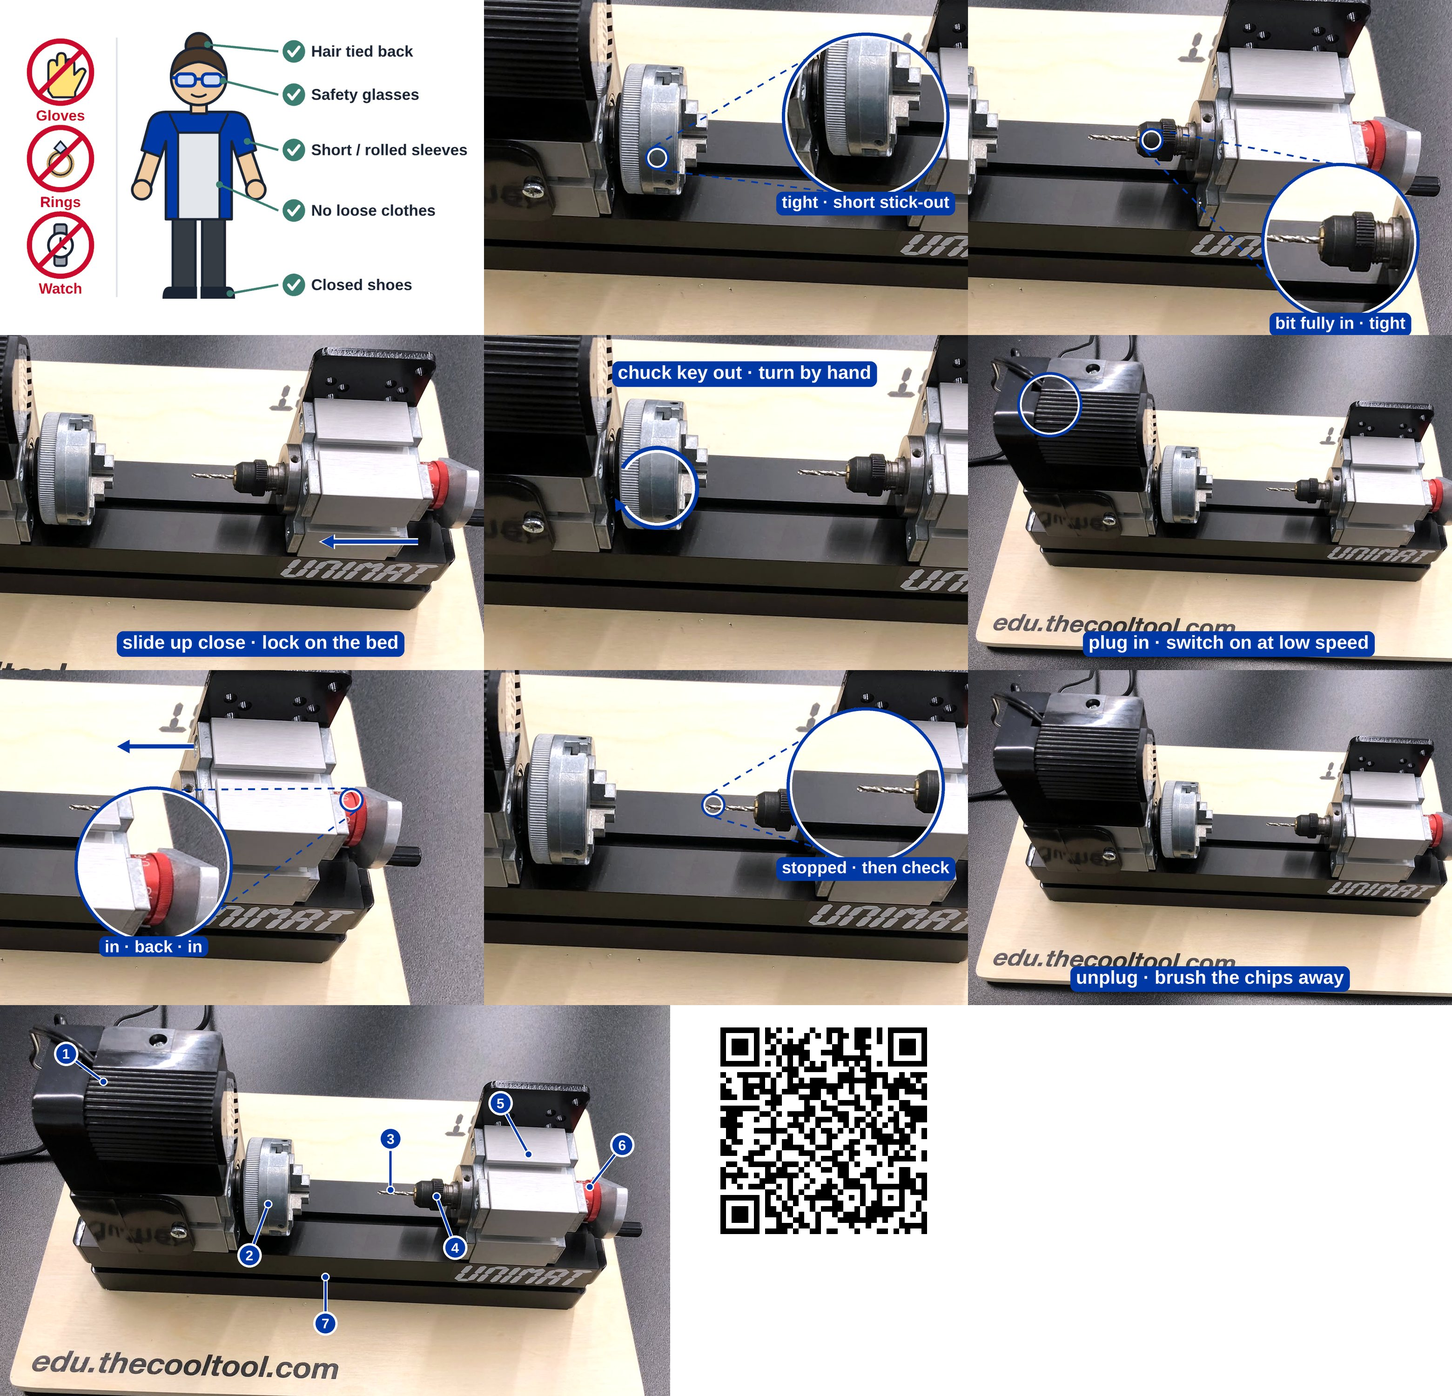
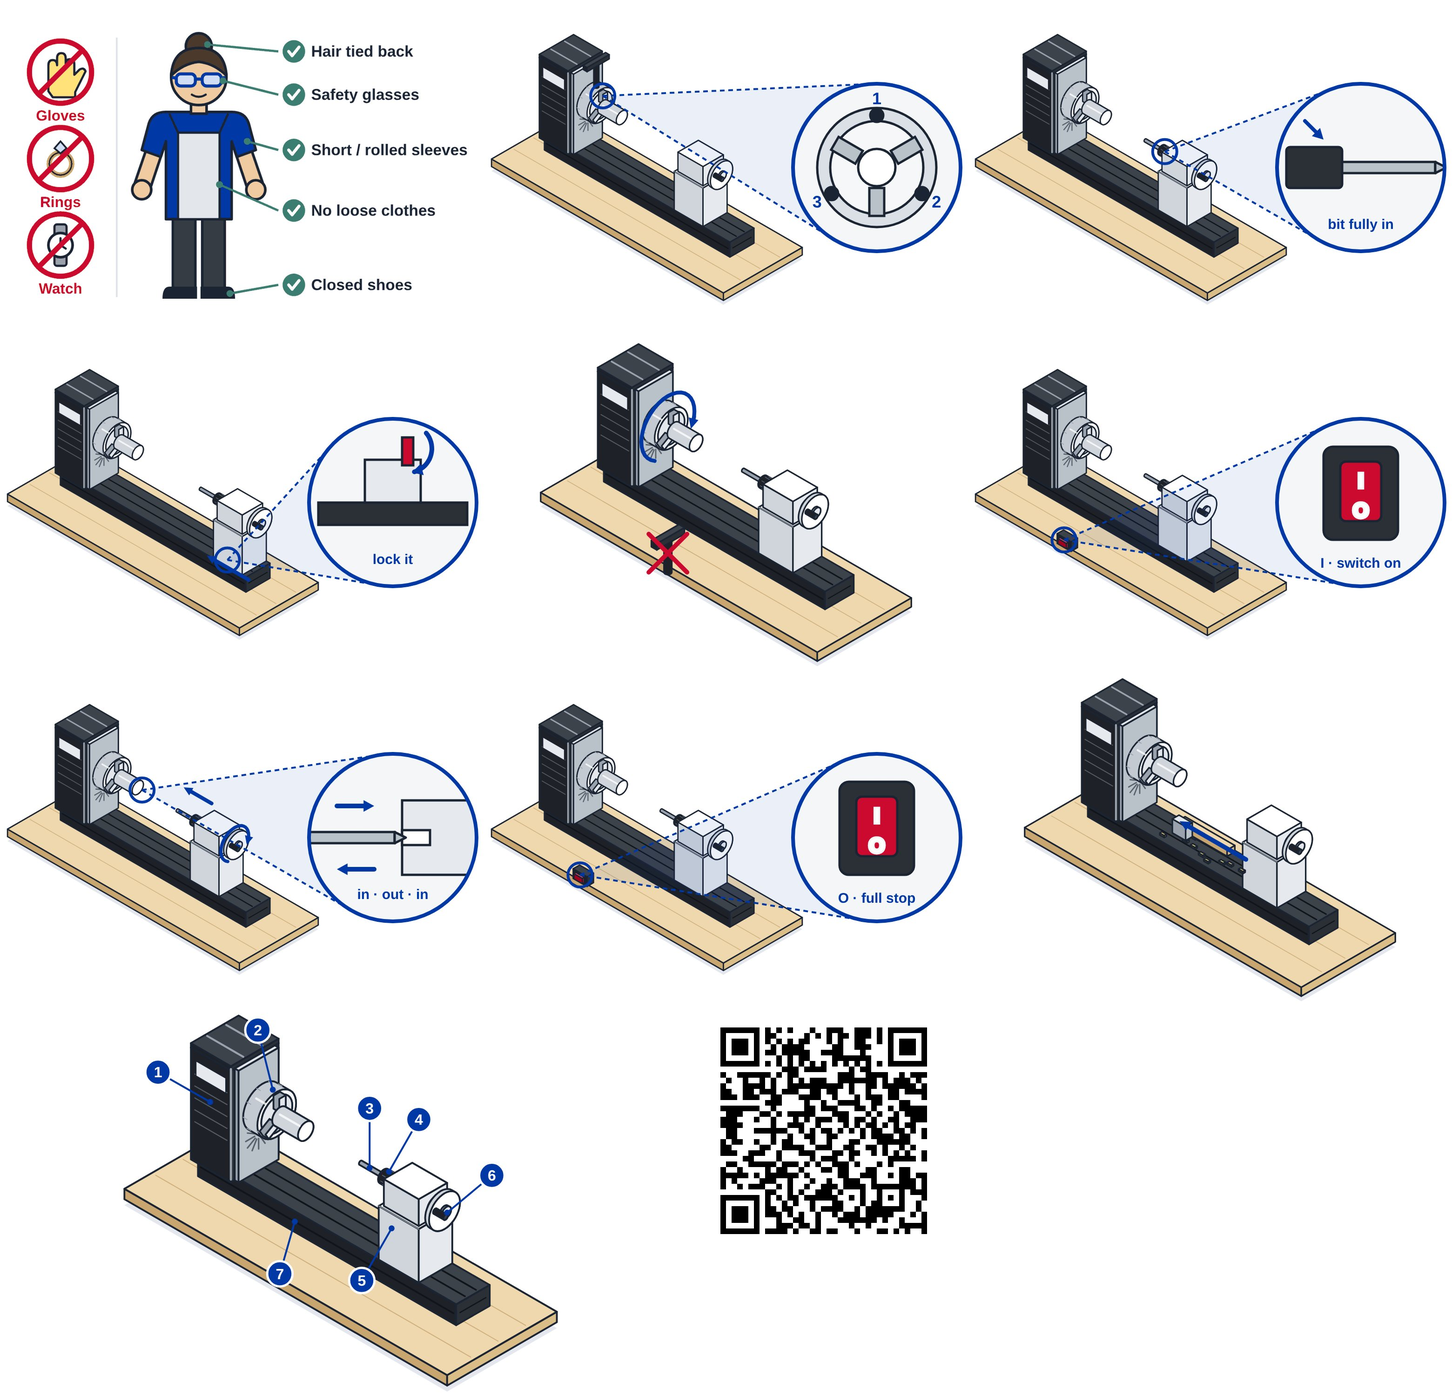
UNIMAT quick start guides: line-art isometric drawings in the original guide style
Claude-Session: https://claude.ai/code/session_01UZxosm956BttcUVKfRsasz

diff --git a/guides/M-01.html b/guides/M-01.html
@@ -36,7 +36,7 @@ html,body{margin:0;background:#e9ecf1}
   </div>
   <div style="padding:20px 48px 0">
     <div style="font-size:13px;letter-spacing:.18em;font-weight:800;text-transform:uppercase;color:#0039a6">Know your machine</div>
-    <div style="width:610px;height:355.8px;overflow:hidden;position:relative;flex-shrink:0;margin:0 auto;"><img src="img/M-01-wood.jpg" alt="Photo of the machine with numbered parts" style="position:absolute;max-width:none;width:1321.7px;left:0.0px;top:-915.0px"></div>
+    <div style="width:610px;height:355.8px;overflow:hidden;position:relative;flex-shrink:0;margin:0 auto;"><img src="img/M-01-wood.jpg" alt="Drawing of the machine with numbered parts" style="position:absolute;max-width:none;width:1321.7px;left:0.0px;top:-915.0px"></div>
     <div style="display:grid;grid-template-columns:1fr 1fr;gap:9px 28px;margin-top:6px"><div style="display:flex;gap:10px;align-items:center;font-size:14px;line-height:1.3"><span style="display:inline-flex;align-items:center;justify-content:center;width:26px;height:26px;border-radius:50%;background:#0039a6;color:#fff;font-weight:800;font-size:14px;flex-shrink:0">1</span><span><b>Motor</b> · 12 V DC</span></div><div style="display:flex;gap:10px;align-items:center;font-size:14px;line-height:1.3"><span style="display:inline-flex;align-items:center;justify-content:center;width:26px;height:26px;border-radius:50%;background:#0039a6;color:#fff;font-weight:800;font-size:14px;flex-shrink:0">6</span><span><b>Carriage handwheel</b> · slides the rest</span></div><div style="display:flex;gap:10px;align-items:center;font-size:14px;line-height:1.3"><span style="display:inline-flex;align-items:center;justify-content:center;width:26px;height:26px;border-radius:50%;background:#0039a6;color:#fff;font-weight:800;font-size:14px;flex-shrink:0">2</span><span><b>ON / OFF switch</b></span></div><div style="display:flex;gap:10px;align-items:center;font-size:14px;line-height:1.3"><span style="display:inline-flex;align-items:center;justify-content:center;width:26px;height:26px;border-radius:50%;background:#0039a6;color:#fff;font-weight:800;font-size:14px;flex-shrink:0">7</span><span><b>Tailstock centre</b></span></div><div style="display:flex;gap:10px;align-items:center;font-size:14px;line-height:1.3"><span style="display:inline-flex;align-items:center;justify-content:center;width:26px;height:26px;border-radius:50%;background:#0039a6;color:#fff;font-weight:800;font-size:14px;flex-shrink:0">3</span><span><b>Drive centre</b> · on the headstock</span></div><div style="display:flex;gap:10px;align-items:center;font-size:14px;line-height:1.3"><span style="display:inline-flex;align-items:center;justify-content:center;width:26px;height:26px;border-radius:50%;background:#0039a6;color:#fff;font-weight:800;font-size:14px;flex-shrink:0">8</span><span><b>Tailstock handwheel</b> · advances the centre</span></div><div style="display:flex;gap:10px;align-items:center;font-size:14px;line-height:1.3"><span style="display:inline-flex;align-items:center;justify-content:center;width:26px;height:26px;border-radius:50%;background:#0039a6;color:#fff;font-weight:800;font-size:14px;flex-shrink:0">4</span><span><b>Tool rest (T-rest)</b></span></div><div style="display:flex;gap:10px;align-items:center;font-size:14px;line-height:1.3"><span style="display:inline-flex;align-items:center;justify-content:center;width:26px;height:26px;border-radius:50%;background:#0039a6;color:#fff;font-weight:800;font-size:14px;flex-shrink:0">9</span><span><b>Speed knob</b> · variable power adapter</span></div><div style="display:flex;gap:10px;align-items:center;font-size:14px;line-height:1.3"><span style="display:inline-flex;align-items:center;justify-content:center;width:26px;height:26px;border-radius:50%;background:#0039a6;color:#fff;font-weight:800;font-size:14px;flex-shrink:0">5</span><span><b>Tool rest clamp screw</b></span></div></div>
   </div>
   <div style="margin:18px 48px 0;display:flex;gap:20px">
@@ -140,7 +140,7 @@ html,body{margin:0;background:#e9ecf1}
   </div>
   <div style="padding:20px 48px 0">
     <div style="font-size:13px;letter-spacing:.18em;font-weight:800;text-transform:uppercase;color:#0039a6">Know your machine</div>
-    <div style="width:660px;height:385.0px;overflow:hidden;position:relative;flex-shrink:0;margin:0 auto;"><img src="img/M-01-sander.jpg" alt="Photo of the machine with numbered parts" style="position:absolute;max-width:none;width:1430.0px;left:0.0px;top:-990.0px"></div>
+    <div style="width:660px;height:385.0px;overflow:hidden;position:relative;flex-shrink:0;margin:0 auto;"><img src="img/M-01-sander.jpg" alt="Drawing of the machine with numbered parts" style="position:absolute;max-width:none;width:1430.0px;left:0.0px;top:-990.0px"></div>
     <div style="display:grid;grid-template-columns:1fr 1fr;gap:9px 28px;margin-top:6px"><div style="display:flex;gap:10px;align-items:center;font-size:14px;line-height:1.3"><span style="display:inline-flex;align-items:center;justify-content:center;width:26px;height:26px;border-radius:50%;background:#0039a6;color:#fff;font-weight:800;font-size:14px;flex-shrink:0">1</span><span><b>Motor unit</b></span></div><div style="display:flex;gap:10px;align-items:center;font-size:14px;line-height:1.3"><span style="display:inline-flex;align-items:center;justify-content:center;width:26px;height:26px;border-radius:50%;background:#0039a6;color:#fff;font-weight:800;font-size:14px;flex-shrink:0">4</span><span><b>Bed</b></span></div><div style="display:flex;gap:10px;align-items:center;font-size:14px;line-height:1.3"><span style="display:inline-flex;align-items:center;justify-content:center;width:26px;height:26px;border-radius:50%;background:#0039a6;color:#fff;font-weight:800;font-size:14px;flex-shrink:0">2</span><span><b>Sanding disc on the plate</b></span></div><div style="display:flex;gap:10px;align-items:center;font-size:14px;line-height:1.3"><span style="display:inline-flex;align-items:center;justify-content:center;width:26px;height:26px;border-radius:50%;background:#0039a6;color:#fff;font-weight:800;font-size:14px;flex-shrink:0">5</span><span><b>Spare sanding discs</b></span></div><div style="display:flex;gap:10px;align-items:center;font-size:14px;line-height:1.3"><span style="display:inline-flex;align-items:center;justify-content:center;width:26px;height:26px;border-radius:50%;background:#0039a6;color:#fff;font-weight:800;font-size:14px;flex-shrink:0">3</span><span><b>Headstock plate</b></span></div><div style="display:flex;gap:10px;align-items:center;font-size:14px;line-height:1.3"><span style="display:inline-flex;align-items:center;justify-content:center;width:26px;height:26px;border-radius:50%;background:#0039a6;color:#fff;font-weight:800;font-size:14px;flex-shrink:0">6</span><span><b>In-line ON / OFF switch</b></span></div></div>
   </div>
   <div style="margin:18px 48px 0;display:flex;gap:20px">

diff --git a/guides/M-06.html b/guides/M-06.html
@@ -35,7 +35,7 @@ html,body{margin:0;background:#e9ecf1}
   </div>
   <div style="padding:20px 48px 0">
     <div style="font-size:13px;letter-spacing:.18em;font-weight:800;text-transform:uppercase;color:#0039a6">Know your machine</div>
-    <div style="width:610px;height:355.8px;overflow:hidden;position:relative;flex-shrink:0;margin:0 auto;"><img src="img/M-06.jpg" alt="Photo of the machine with numbered parts" style="position:absolute;max-width:none;width:1321.7px;left:0.0px;top:-915.0px"></div>
+    <div style="width:610px;height:355.8px;overflow:hidden;position:relative;flex-shrink:0;margin:0 auto;"><img src="img/M-06.jpg" alt="Drawing of the machine with numbered parts" style="position:absolute;max-width:none;width:1321.7px;left:0.0px;top:-915.0px"></div>
     <div style="display:grid;grid-template-columns:1fr 1fr;gap:9px 28px;margin-top:6px"><div style="display:flex;gap:10px;align-items:center;font-size:14px;line-height:1.3"><span style="display:inline-flex;align-items:center;justify-content:center;width:26px;height:26px;border-radius:50%;background:#0039a6;color:#fff;font-weight:800;font-size:14px;flex-shrink:0">1</span><span><b>Motor</b> · power drive</span></div><div style="display:flex;gap:10px;align-items:center;font-size:14px;line-height:1.3"><span style="display:inline-flex;align-items:center;justify-content:center;width:26px;height:26px;border-radius:50%;background:#0039a6;color:#fff;font-weight:800;font-size:14px;flex-shrink:0">6</span><span><b>Cross-slide handwheel</b> · depth of cut</span></div><div style="display:flex;gap:10px;align-items:center;font-size:14px;line-height:1.3"><span style="display:inline-flex;align-items:center;justify-content:center;width:26px;height:26px;border-radius:50%;background:#0039a6;color:#fff;font-weight:800;font-size:14px;flex-shrink:0">2</span><span><b>Belt and pulleys</b> · do not bend</span></div><div style="display:flex;gap:10px;align-items:center;font-size:14px;line-height:1.3"><span style="display:inline-flex;align-items:center;justify-content:center;width:26px;height:26px;border-radius:50%;background:#0039a6;color:#fff;font-weight:800;font-size:14px;flex-shrink:0">7</span><span><b>Carriage handwheel</b> · along the bed</span></div><div style="display:flex;gap:10px;align-items:center;font-size:14px;line-height:1.3"><span style="display:inline-flex;align-items:center;justify-content:center;width:26px;height:26px;border-radius:50%;background:#0039a6;color:#fff;font-weight:800;font-size:14px;flex-shrink:0">3</span><span><b>3-jaw chuck</b></span></div><div style="display:flex;gap:10px;align-items:center;font-size:14px;line-height:1.3"><span style="display:inline-flex;align-items:center;justify-content:center;width:26px;height:26px;border-radius:50%;background:#0039a6;color:#fff;font-weight:800;font-size:14px;flex-shrink:0">8</span><span><b>Tailstock with live centre</b></span></div><div style="display:flex;gap:10px;align-items:center;font-size:14px;line-height:1.3"><span style="display:inline-flex;align-items:center;justify-content:center;width:26px;height:26px;border-radius:50%;background:#0039a6;color:#fff;font-weight:800;font-size:14px;flex-shrink:0">4</span><span><b>Workpiece</b></span></div><div style="display:flex;gap:10px;align-items:center;font-size:14px;line-height:1.3"><span style="display:inline-flex;align-items:center;justify-content:center;width:26px;height:26px;border-radius:50%;background:#0039a6;color:#fff;font-weight:800;font-size:14px;flex-shrink:0">9</span><span><b>In-line ON / OFF switch</b></span></div><div style="display:flex;gap:10px;align-items:center;font-size:14px;line-height:1.3"><span style="display:inline-flex;align-items:center;justify-content:center;width:26px;height:26px;border-radius:50%;background:#0039a6;color:#fff;font-weight:800;font-size:14px;flex-shrink:0">5</span><span><b>Tool post & cutting tool</b></span></div></div>
   </div>
   <div style="margin:18px 48px 0;display:flex;gap:20px">

diff --git a/guides/M-03.html b/guides/M-03.html
@@ -35,7 +35,7 @@ html,body{margin:0;background:#e9ecf1}
   </div>
   <div style="padding:20px 48px 0">
     <div style="font-size:13px;letter-spacing:.18em;font-weight:800;text-transform:uppercase;color:#0039a6">Know your machine</div>
-    <div style="width:610px;height:355.8px;overflow:hidden;position:relative;flex-shrink:0;margin:0 auto;"><img src="img/M-03.jpg" alt="Photo of the machine with numbered parts" style="position:absolute;max-width:none;width:1321.7px;left:0.0px;top:-915.0px"></div>
+    <div style="width:610px;height:355.8px;overflow:hidden;position:relative;flex-shrink:0;margin:0 auto;"><img src="img/M-03.jpg" alt="Drawing of the machine with numbered parts" style="position:absolute;max-width:none;width:1321.7px;left:0.0px;top:-915.0px"></div>
     <div style="display:grid;grid-template-columns:1fr 1fr;gap:9px 28px;margin-top:6px"><div style="display:flex;gap:10px;align-items:center;font-size:14px;line-height:1.3"><span style="display:inline-flex;align-items:center;justify-content:center;width:26px;height:26px;border-radius:50%;background:#0039a6;color:#fff;font-weight:800;font-size:14px;flex-shrink:0">1</span><span><b>Motor</b></span></div><div style="display:flex;gap:10px;align-items:center;font-size:14px;line-height:1.3"><span style="display:inline-flex;align-items:center;justify-content:center;width:26px;height:26px;border-radius:50%;background:#0039a6;color:#fff;font-weight:800;font-size:14px;flex-shrink:0">6</span><span><b>T-slot table</b></span></div><div style="display:flex;gap:10px;align-items:center;font-size:14px;line-height:1.3"><span style="display:inline-flex;align-items:center;justify-content:center;width:26px;height:26px;border-radius:50%;background:#0039a6;color:#fff;font-weight:800;font-size:14px;flex-shrink:0">2</span><span><b>Spindle with collet</b></span></div><div style="display:flex;gap:10px;align-items:center;font-size:14px;line-height:1.3"><span style="display:inline-flex;align-items:center;justify-content:center;width:26px;height:26px;border-radius:50%;background:#0039a6;color:#fff;font-weight:800;font-size:14px;flex-shrink:0">7</span><span><b>Y handwheel</b> · table toward the cutter</span></div><div style="display:flex;gap:10px;align-items:center;font-size:14px;line-height:1.3"><span style="display:inline-flex;align-items:center;justify-content:center;width:26px;height:26px;border-radius:50%;background:#0039a6;color:#fff;font-weight:800;font-size:14px;flex-shrink:0">3</span><span><b>End mill cutter</b></span></div><div style="display:flex;gap:10px;align-items:center;font-size:14px;line-height:1.3"><span style="display:inline-flex;align-items:center;justify-content:center;width:26px;height:26px;border-radius:50%;background:#0039a6;color:#fff;font-weight:800;font-size:14px;flex-shrink:0">8</span><span><b>X handwheel</b> · table along the bed</span></div><div style="display:flex;gap:10px;align-items:center;font-size:14px;line-height:1.3"><span style="display:inline-flex;align-items:center;justify-content:center;width:26px;height:26px;border-radius:50%;background:#0039a6;color:#fff;font-weight:800;font-size:14px;flex-shrink:0">4</span><span><b>Vertical slide</b> · carries the head</span></div><div style="display:flex;gap:10px;align-items:center;font-size:14px;line-height:1.3"><span style="display:inline-flex;align-items:center;justify-content:center;width:26px;height:26px;border-radius:50%;background:#0039a6;color:#fff;font-weight:800;font-size:14px;flex-shrink:0">9</span><span><b>Mounting plate</b></span></div><div style="display:flex;gap:10px;align-items:center;font-size:14px;line-height:1.3"><span style="display:inline-flex;align-items:center;justify-content:center;width:26px;height:26px;border-radius:50%;background:#0039a6;color:#fff;font-weight:800;font-size:14px;flex-shrink:0">5</span><span><b>Z handwheel</b> · head up / down</span></div></div>
   </div>
   <div style="margin:18px 48px 0;display:flex;gap:20px">

diff --git a/guides/M-05.html b/guides/M-05.html
@@ -35,7 +35,7 @@ html,body{margin:0;background:#e9ecf1}
   </div>
   <div style="padding:20px 48px 0">
     <div style="font-size:13px;letter-spacing:.18em;font-weight:800;text-transform:uppercase;color:#0039a6">Know your machine</div>
-    <div style="width:660px;height:385.0px;overflow:hidden;position:relative;flex-shrink:0;margin:0 auto;"><img src="img/M-05.jpg" alt="Photo of the machine with numbered parts" style="position:absolute;max-width:none;width:1430.0px;left:0.0px;top:-990.0px"></div>
+    <div style="width:660px;height:385.0px;overflow:hidden;position:relative;flex-shrink:0;margin:0 auto;"><img src="img/M-05.jpg" alt="Drawing of the machine with numbered parts" style="position:absolute;max-width:none;width:1430.0px;left:0.0px;top:-990.0px"></div>
     <div style="display:grid;grid-template-columns:1fr 1fr;gap:9px 28px;margin-top:6px"><div style="display:flex;gap:10px;align-items:center;font-size:14px;line-height:1.3"><span style="display:inline-flex;align-items:center;justify-content:center;width:26px;height:26px;border-radius:50%;background:#0039a6;color:#fff;font-weight:800;font-size:14px;flex-shrink:0">1</span><span><b>Motor</b></span></div><div style="display:flex;gap:10px;align-items:center;font-size:14px;line-height:1.3"><span style="display:inline-flex;align-items:center;justify-content:center;width:26px;height:26px;border-radius:50%;background:#0039a6;color:#fff;font-weight:800;font-size:14px;flex-shrink:0">5</span><span><b>Head slide handwheel</b></span></div><div style="display:flex;gap:10px;align-items:center;font-size:14px;line-height:1.3"><span style="display:inline-flex;align-items:center;justify-content:center;width:26px;height:26px;border-radius:50%;background:#0039a6;color:#fff;font-weight:800;font-size:14px;flex-shrink:0">2</span><span><b>Tilting head</b> · angle scale</span></div><div style="display:flex;gap:10px;align-items:center;font-size:14px;line-height:1.3"><span style="display:inline-flex;align-items:center;justify-content:center;width:26px;height:26px;border-radius:50%;background:#0039a6;color:#fff;font-weight:800;font-size:14px;flex-shrink:0">6</span><span><b>Dividing head with 3-jaw chuck</b></span></div><div style="display:flex;gap:10px;align-items:center;font-size:14px;line-height:1.3"><span style="display:inline-flex;align-items:center;justify-content:center;width:26px;height:26px;border-radius:50%;background:#0039a6;color:#fff;font-weight:800;font-size:14px;flex-shrink:0">3</span><span><b>End mill</b></span></div><div style="display:flex;gap:10px;align-items:center;font-size:14px;line-height:1.3"><span style="display:inline-flex;align-items:center;justify-content:center;width:26px;height:26px;border-radius:50%;background:#0039a6;color:#fff;font-weight:800;font-size:14px;flex-shrink:0">7</span><span><b>Index lock lever</b></span></div><div style="display:flex;gap:10px;align-items:center;font-size:14px;line-height:1.3"><span style="display:inline-flex;align-items:center;justify-content:center;width:26px;height:26px;border-radius:50%;background:#0039a6;color:#fff;font-weight:800;font-size:14px;flex-shrink:0">4</span><span><b>Column</b></span></div><div style="display:flex;gap:10px;align-items:center;font-size:14px;line-height:1.3"><span style="display:inline-flex;align-items:center;justify-content:center;width:26px;height:26px;border-radius:50%;background:#0039a6;color:#fff;font-weight:800;font-size:14px;flex-shrink:0">8</span><span><b>X handwheel</b> · along the bed</span></div></div>
   </div>
   <div style="margin:18px 48px 0;display:flex;gap:20px">

diff --git a/guides/M-02.html b/guides/M-02.html
@@ -35,7 +35,7 @@ html,body{margin:0;background:#e9ecf1}
   </div>
   <div style="padding:20px 48px 0">
     <div style="font-size:13px;letter-spacing:.18em;font-weight:800;text-transform:uppercase;color:#0039a6">Know your machine</div>
-    <div style="width:660px;height:385.0px;overflow:hidden;position:relative;flex-shrink:0;margin:0 auto;"><img src="img/M-02.jpg" alt="Photo of the machine with numbered parts" style="position:absolute;max-width:none;width:1430.0px;left:0.0px;top:-990.0px"></div>
+    <div style="width:660px;height:385.0px;overflow:hidden;position:relative;flex-shrink:0;margin:0 auto;"><img src="img/M-02.jpg" alt="Drawing of the machine with numbered parts" style="position:absolute;max-width:none;width:1430.0px;left:0.0px;top:-990.0px"></div>
     <div style="display:grid;grid-template-columns:1fr 1fr;gap:9px 28px;margin-top:6px"><div style="display:flex;gap:10px;align-items:center;font-size:14px;line-height:1.3"><span style="display:inline-flex;align-items:center;justify-content:center;width:26px;height:26px;border-radius:50%;background:#0039a6;color:#fff;font-weight:800;font-size:14px;flex-shrink:0">1</span><span><b>Motor & headstock</b></span></div><div style="display:flex;gap:10px;align-items:center;font-size:14px;line-height:1.3"><span style="display:inline-flex;align-items:center;justify-content:center;width:26px;height:26px;border-radius:50%;background:#0039a6;color:#fff;font-weight:800;font-size:14px;flex-shrink:0">5</span><span><b>Tailstock</b></span></div><div style="display:flex;gap:10px;align-items:center;font-size:14px;line-height:1.3"><span style="display:inline-flex;align-items:center;justify-content:center;width:26px;height:26px;border-radius:50%;background:#0039a6;color:#fff;font-weight:800;font-size:14px;flex-shrink:0">2</span><span><b>3-jaw chuck</b> · holds and spins the part</span></div><div style="display:flex;gap:10px;align-items:center;font-size:14px;line-height:1.3"><span style="display:inline-flex;align-items:center;justify-content:center;width:26px;height:26px;border-radius:50%;background:#0039a6;color:#fff;font-weight:800;font-size:14px;flex-shrink:0">6</span><span><b>Feed handwheel</b> · red dial in mm</span></div><div style="display:flex;gap:10px;align-items:center;font-size:14px;line-height:1.3"><span style="display:inline-flex;align-items:center;justify-content:center;width:26px;height:26px;border-radius:50%;background:#0039a6;color:#fff;font-weight:800;font-size:14px;flex-shrink:0">3</span><span><b>Drill bit</b></span></div><div style="display:flex;gap:10px;align-items:center;font-size:14px;line-height:1.3"><span style="display:inline-flex;align-items:center;justify-content:center;width:26px;height:26px;border-radius:50%;background:#0039a6;color:#fff;font-weight:800;font-size:14px;flex-shrink:0">7</span><span><b>Bed</b></span></div><div style="display:flex;gap:10px;align-items:center;font-size:14px;line-height:1.3"><span style="display:inline-flex;align-items:center;justify-content:center;width:26px;height:26px;border-radius:50%;background:#0039a6;color:#fff;font-weight:800;font-size:14px;flex-shrink:0">4</span><span><b>Drill chuck in the tailstock</b></span></div></div>
   </div>
   <div style="margin:18px 48px 0;display:flex;gap:20px">
